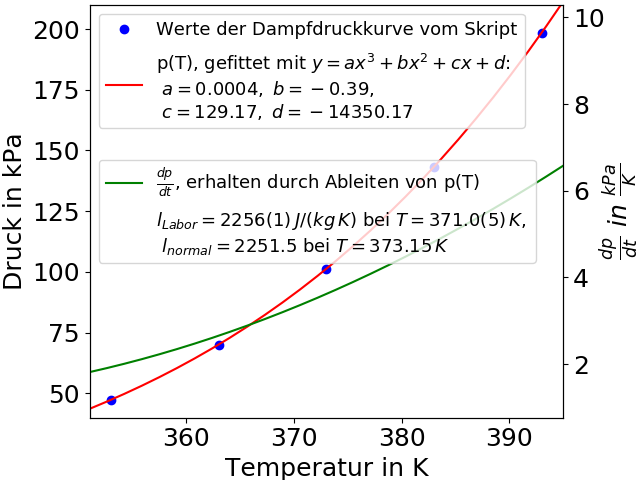
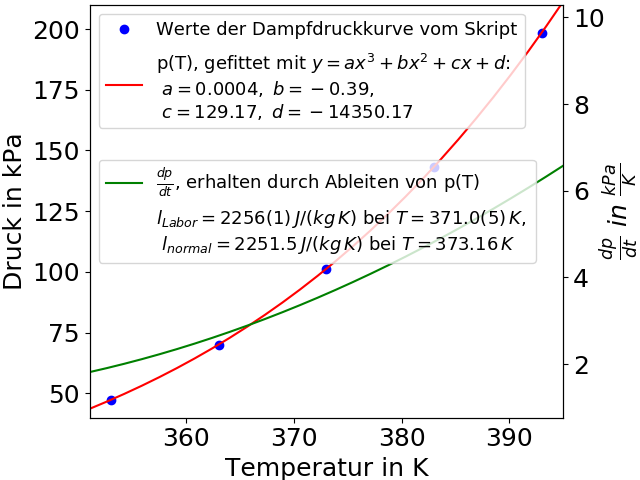
Einheiten in Plots geandert

Changed region(s): [[0.25, 0.4375, 0.8125, 0.5312]]

diff --git a/Versuch9/scripts/clayperon.py b/Versuch9/scripts/clayperon.py
@@ -51,7 +51,7 @@ def cubic(B,x):
 def plot_pressure_curve():
     #f = ft.cubic
     f = cubic
-    T_normal = 373.15
+    T_normal = 373.16
     T_labor = ufloat(371, 0.5)
     T, p, vd = get_data()
     #popt_p, cov_p = curve_fit(f,T,p)
@@ -61,6 +61,8 @@ def plot_pressure_curve():
     popt_p, chi2_p = out_p.beta, out_p.res_var
     popt_v, chi2_v = out_v.beta, out_v.res_var
 
+    p_labor = f(popt_p, T_labor)
+    print (p_labor)
     l_normal = compute_l(T_normal, popt_p, popt_v)
     l_labor = compute_l(T_labor, popt_p, popt_v)
     fmtr = ShorthandFormatter()
@@ -79,7 +81,7 @@ def plot_pressure_curve():
     #ax.plot(x_fit, f(x_fit, *popt_v), 'y-')
     ax2.plot(x_fit, dpdt(x_fit, popt_p), 'g-', label = r'$\frac{dp}{dt}$, erhalten durch Ableiten von p(T)')
     
-    ax2.plot([], [],' ', label = '$l_{{Labor}} = {}\: J/(kg\,K)$ bei $T=371.0(5)\,K$, \n $l_{{normal}} = {:.1f}$ bei $T=373.15\,K$'.format(l_labor_str, l_normal))
+    ax2.plot([], [],' ', label = '$l_{{Labor}} = {}\: J/(kg\,K)$ bei $T=371.0(5)\,K$, \n $l_{{normal}} = {:.1f}\: J/(kg\,K)$ bei $T=373.16\,K$'.format(l_labor_str, l_normal))
     ax.set_xlabel('Temperatur in K', fontsize = 18)
     ax.set_ylabel('Druck in kPa', fontsize = 18)
     ax.set_xbound(351, 395)

diff --git a/Versuch9/scripts/dampf.py b/Versuch9/scripts/dampf.py
@@ -168,14 +168,19 @@ def plot_curve():
     ax.set_xbound(-0.5,25.5)
     ax.set_ybound(10,49)
     ax.tick_params(labelsize = 18)
+    
     #labels
     ax.set_xlabel('Zeit in min', fontsize = 18)
     ax.set_ylabel(r'Temperatur in $^{\circ}C$', fontsize = 18)
-    plt.tight_layout()
-    plt.subplots_adjust(left = 0.12, right = 0.99, bottom = 0.16, top = 0.99)
-
-    legend = ax.legend(loc = 'center left', fontsize = 'large', title = r'$l = ${0} MJ/kg'.format(l_str))
+    ax.spines['top'].set_visible(False)
+    ax.spines['right'].set_visible(False)
+    
+    legend = ax.legend(bbox_to_anchor=(1.4, 0.5), loc='center right', borderaxespad=0., fontsize = 'large', title = r'$l = ${0} MJ/kg'.format(l_str))
     legend.get_title().set_fontsize('14')
+
+    fig.set_size_inches((10,5))
+    plt.tight_layout()
+    plt.subplots_adjust(left = 0.12, right = 0.74, bottom = 0.16, top = 0.99)
 
 
 if __name__ == "__main__":

diff --git a/Versuch9/scripts/eis.py b/Versuch9/scripts/eis.py
@@ -182,14 +182,19 @@ def plot_curve():
     ax.set_xbound(-0.5,15.7)
     ax.set_ybound(16,44.9)
     ax.tick_params(labelsize = 18)
+
     #labels
     ax.set_xlabel('Zeit in min', fontsize = 18)
     ax.set_ylabel(r'Temperatur in $^{\circ}C$', fontsize = 18)
-    plt.tight_layout()
-    plt.subplots_adjust(left = 0.12, right = 0.99, bottom = 0.16, top = 0.99)
+    ax.spines['top'].set_visible(False)
+    ax.spines['right'].set_visible(False)
 
-    legend = ax.legend(loc = 'center right', fontsize = 'large', title = r'$l = ${0} MJ/kg'.format(l_str))
+    legend = ax.legend(bbox_to_anchor=(1.3, 0.5), loc='center right', borderaxespad=0., fontsize = 'large', title = r'$l = ${0} MJ/kg'.format(l_str))
     legend.get_title().set_fontsize('14')
+
+    fig.set_size_inches((10,5))
+    plt.tight_layout()
+    plt.subplots_adjust(left = 0.12, right = 0.78, bottom = 0.16, top = 0.99)
 
 
 if __name__ == "__main__":

diff --git a/Versuch9/scripts/wasserwert.py b/Versuch9/scripts/wasserwert.py
@@ -129,12 +129,15 @@ def plot_curve():
     #labels
     ax.set_xlabel('Zeit in min', fontsize = 18)
     ax.set_ylabel(r'Temperatur in $^{\circ}C$', fontsize = 18)
-    plt.tight_layout()
-    plt.subplots_adjust(left = 0.12, right = 0.99, bottom = 0.16, top = 0.99)
+    ax.spines['top'].set_visible(False)
+    ax.spines['right'].set_visible(False)
 
-    legend = ax.legend(loc = 'center left', fontsize = 'large', title = r'$W = ${0} kJ/K, $m_{{eq}} = ${1} kg'.format(w_str, m_eq_str))
+    legend = ax.legend(bbox_to_anchor=(1.4, 0.5), loc='center right', borderaxespad=0., fontsize = 'large', title = r'$W = ${0} kJ/K, $m_{{eq}} = ${1} kg'.format(w_str, m_eq_str))
     legend.get_title().set_fontsize('14')
 
+    fig.set_size_inches((10,5))
+    plt.tight_layout()
+    plt.subplots_adjust(left = 0.12, right = 0.74, bottom = 0.16, top = 0.99)
 
 if __name__ == "__main__":
     plot_curve()
